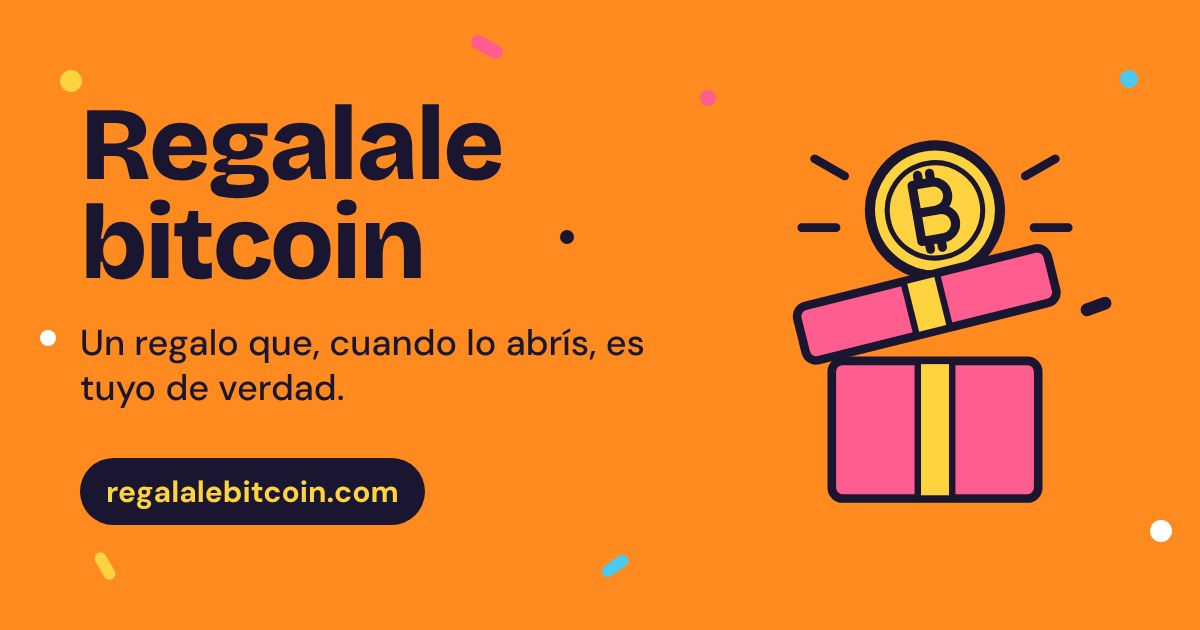
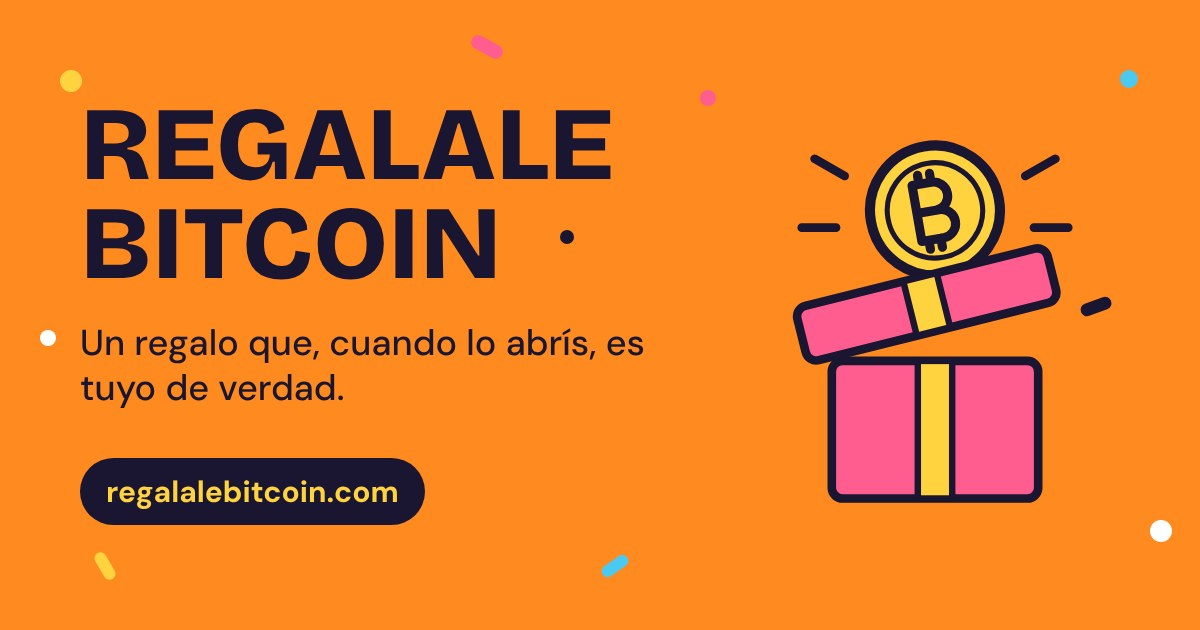
Prueba: la marca en mayúsculas, REGALALE BITCOIN
En mayúsculas el acento no se escribe: se lee igual como regalale,
regálale, regalá o regala. Cambia la marca del encabezado y el pie, el
título de la pestaña, el nombre bajo el ícono y la imagen para
compartir. Las frases que nombran el sitio quedan como estaban hasta
definir el nombre.

Claude-Session: https://claude.ai/code/session_01SCJdFoRqoxamoMPCHSwYjv

Changed region(s): [[0.0617, 0.1508, 0.5242, 0.4524]]

diff --git a/apps/web/index.html b/apps/web/index.html
@@ -5,29 +5,29 @@
     <meta name="viewport" content="width=device-width, initial-scale=1, viewport-fit=cover" />
     <meta name="referrer" content="no-referrer" />
     <meta name="theme-color" content="#FF8A1F" />
-    <title>Regalale Bitcoins</title>
+    <title>REGALALE BITCOIN</title>
     <meta name="description" content="Regalá bitcoin por una ocasión o armá una lista para recibirlo. Sin custodia: cuando lo abrís, es tuyo de verdad." />
     <link rel="icon" href="/favicon.svg" type="image/svg+xml" />
     <link rel="icon" href="/favicon-32.png" sizes="32x32" type="image/png" />
     <link rel="apple-touch-icon" href="/apple-touch-icon.png" />
     <link rel="manifest" href="/site.webmanifest" />
     <!-- Agregada a la pantalla de inicio: abre sin barras del navegador y con este nombre bajo el ícono. -->
-    <meta name="application-name" content="Regalá Bitcoin" />
-    <meta name="apple-mobile-web-app-title" content="Regalá Bitcoin" />
+    <meta name="application-name" content="REGALALE BITCOIN" />
+    <meta name="apple-mobile-web-app-title" content="REGALALE BITCOIN" />
     <meta name="apple-mobile-web-app-capable" content="yes" />
     <meta name="mobile-web-app-capable" content="yes" />
     <meta name="apple-mobile-web-app-status-bar-style" content="default" />
     <!-- Vista previa al compartir un link (WhatsApp, Telegram, X, mail). Es la misma para todas
          las páginas: un link de regalo no muestra para quién es ni cuánto. -->
     <meta property="og:type" content="website" />
-    <meta property="og:site_name" content="Regalale Bitcoins" />
-    <meta property="og:title" content="Regalale bitcoin" />
+    <meta property="og:site_name" content="REGALALE BITCOIN" />
+    <meta property="og:title" content="REGALALE BITCOIN" />
     <meta property="og:description" content="Un regalo que, cuando lo abrís, es tuyo de verdad. regalalebitcoin.com" />
     <meta property="og:image" content="%VITE_PUBLIC_URL%/og.jpg" />
     <meta property="og:image:type" content="image/jpeg" />
     <meta property="og:image:width" content="1200" />
     <meta property="og:image:height" content="630" />
-    <meta property="og:image:alt" content="Una caja de regalo con una moneda de bitcoin y el texto Regalale bitcoin" />
+    <meta property="og:image:alt" content="Una caja de regalo con una moneda de bitcoin y el texto REGALALE BITCOIN" />
     <meta property="og:locale" content="es_AR" />
     <meta name="twitter:card" content="summary_large_image" />
   </head>

diff --git a/apps/e2e/imagenes.ts b/apps/e2e/imagenes.ts
@@ -44,7 +44,7 @@ const OG = `<!doctype html><meta charset="utf-8"><style>${FONTS}</style>
 <div style="position:relative;width:1200px;height:630px;overflow:hidden;background:#FF8A1F;color:#1A1530;font-family:'DM Sans',sans-serif">
 ${confetti}
 <div style="position:absolute;left:80px;top:96px;width:640px;display:flex;flex-direction:column;gap:26px">
-  <div style="font-family:'Bricolage Grotesque',sans-serif;font-weight:800;font-size:104px;line-height:0.95;letter-spacing:-0.02em">Regalale<br>bitcoin</div>
+  <div style="font-family:'Bricolage Grotesque',sans-serif;font-weight:800;font-size:104px;line-height:0.95;letter-spacing:0">REGALALE<br>BITCOIN</div>
   <div style="font-size:36px;font-weight:500;line-height:1.25;max-width:600px">Un regalo que, cuando lo abrís, es tuyo de verdad.</div>
   <div style="align-self:flex-start;margin-top:22px;padding:14px 26px;border-radius:999px;background:#1A1530;color:#FFD23F;font-weight:700;font-size:30px">regalalebitcoin.com</div>
 </div>

diff --git a/apps/web/src/ui.tsx b/apps/web/src/ui.tsx
@@ -12,11 +12,12 @@ export interface I18n {
 export const I18nContext = createContext<I18n>({ lang: 'es', setLang: () => {}, t: (key, vars) => translate('es', key, vars) });
 export const useI18n = (): I18n => useContext(I18nContext);
 
-/** La marca como texto: "regalale" en tinta y "bitcoins" en el color de acento. */
+/** La marca como texto: "REGALALE" en tinta y "BITCOIN" en el color de acento. En mayúsculas el
+ * acento no se escribe, así se lee igual como regalale, regálale, regalá o regala. */
 export function Wordmark({ onOrange = false }: { onOrange?: boolean }) {
   return (
     <span class={`marca-texto${onOrange ? ' sobre-naranja' : ''}`}>
-      regalale<span>bitcoins</span>
+      REGALALE<span>BITCOIN</span>
     </span>
   );
 }

diff --git a/apps/web/src/sincustodia.tsx b/apps/web/src/sincustodia.tsx
@@ -57,7 +57,7 @@ export function NoCustodyPage({ testnet }: { testnet: boolean }) {
   const { t, lang } = useI18n();
 
   useEffect(() => {
-    document.title = `${t('custodia.titulo')} · Regalale Bitcoins`;
+    document.title = `${t('custodia.titulo')} · REGALALE BITCOIN`;
   }, [lang]);
 
   return (

diff --git a/apps/web/src/porque.tsx b/apps/web/src/porque.tsx
@@ -65,7 +65,7 @@ export function WhyPage({ testnet }: { testnet: boolean }) {
   const reasons = REASONS[lang];
 
   useEffect(() => {
-    document.title = `${t('porque.titulo')} · Regalale Bitcoins`;
+    document.title = `${t('porque.titulo')} · REGALALE BITCOIN`;
   }, [lang]);
 
   return (

diff --git a/apps/web/src/styles.css b/apps/web/src/styles.css
@@ -114,7 +114,7 @@ h3 {
   font-family: var(--titulos);
   font-weight: 800;
   font-size: 21px;
-  letter-spacing: -0.01em;
+  letter-spacing: 0;
   color: var(--tinta);
 }
 
